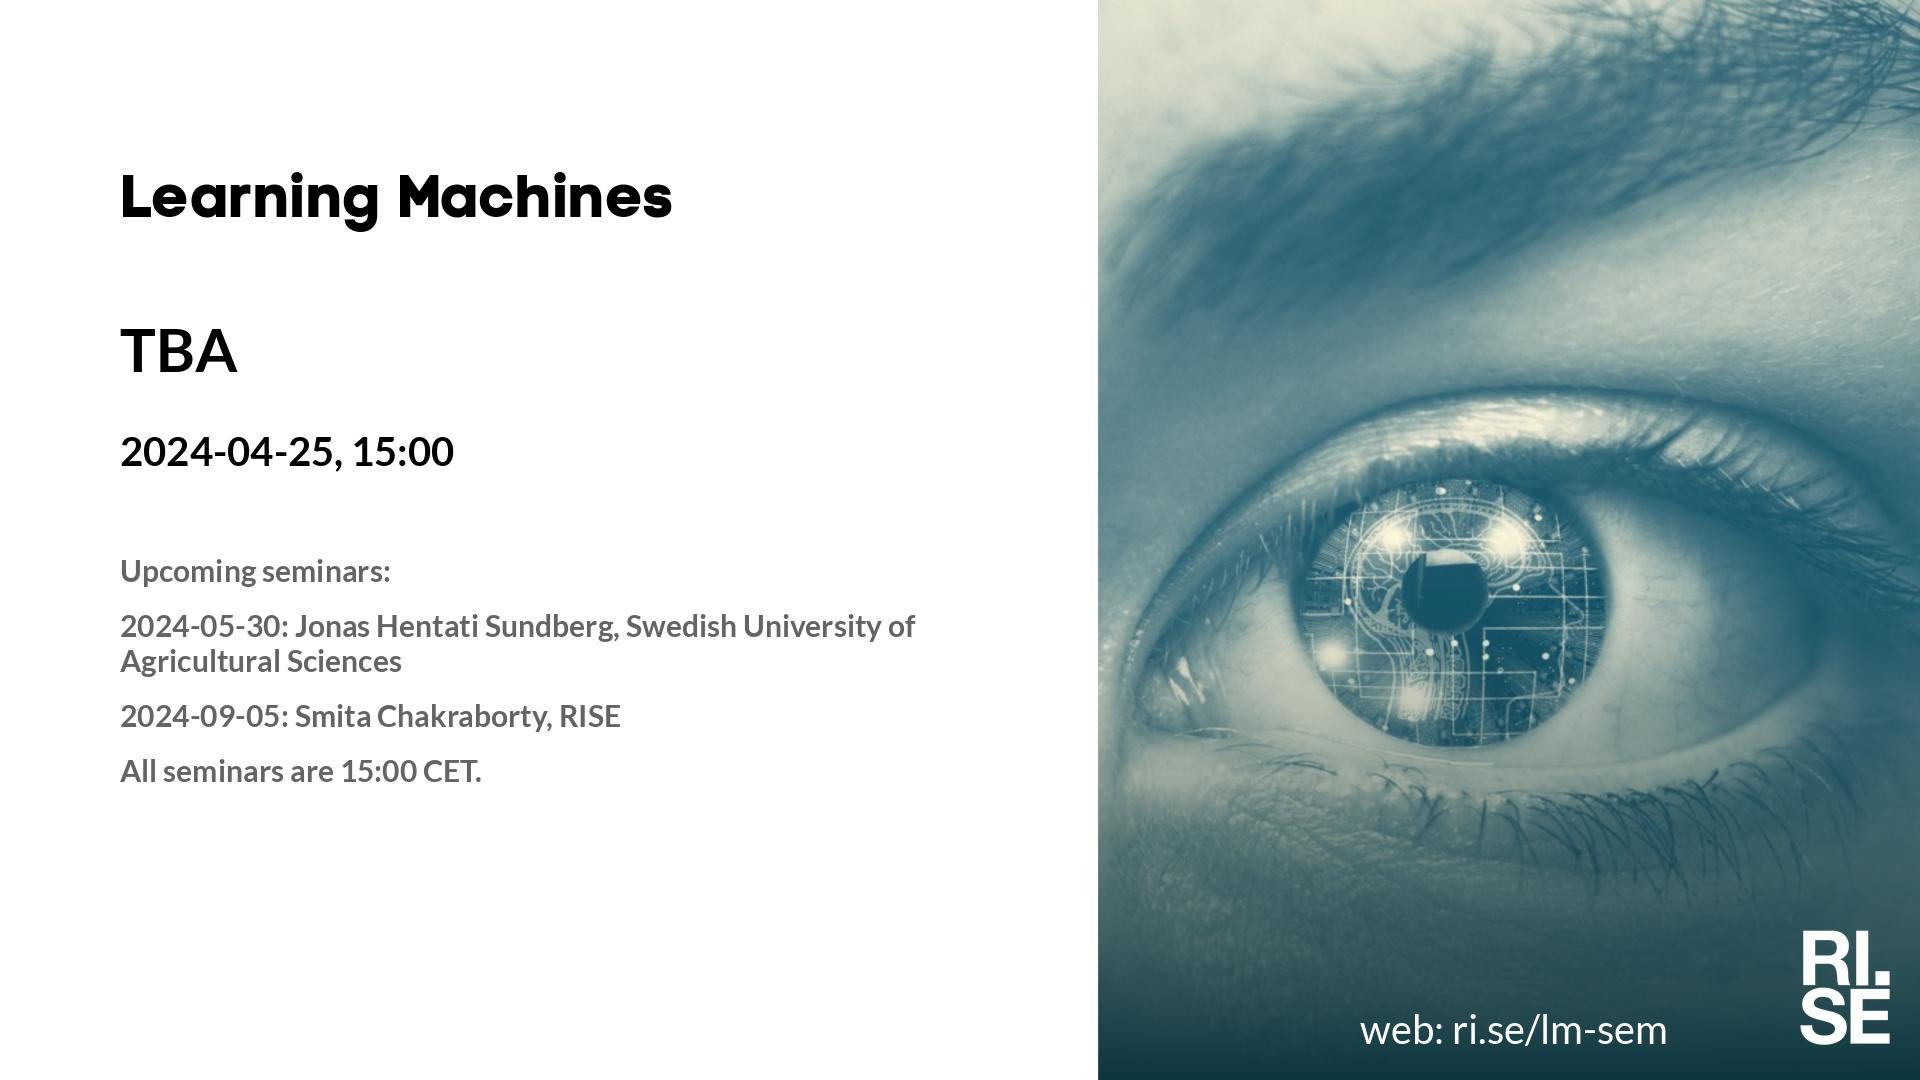
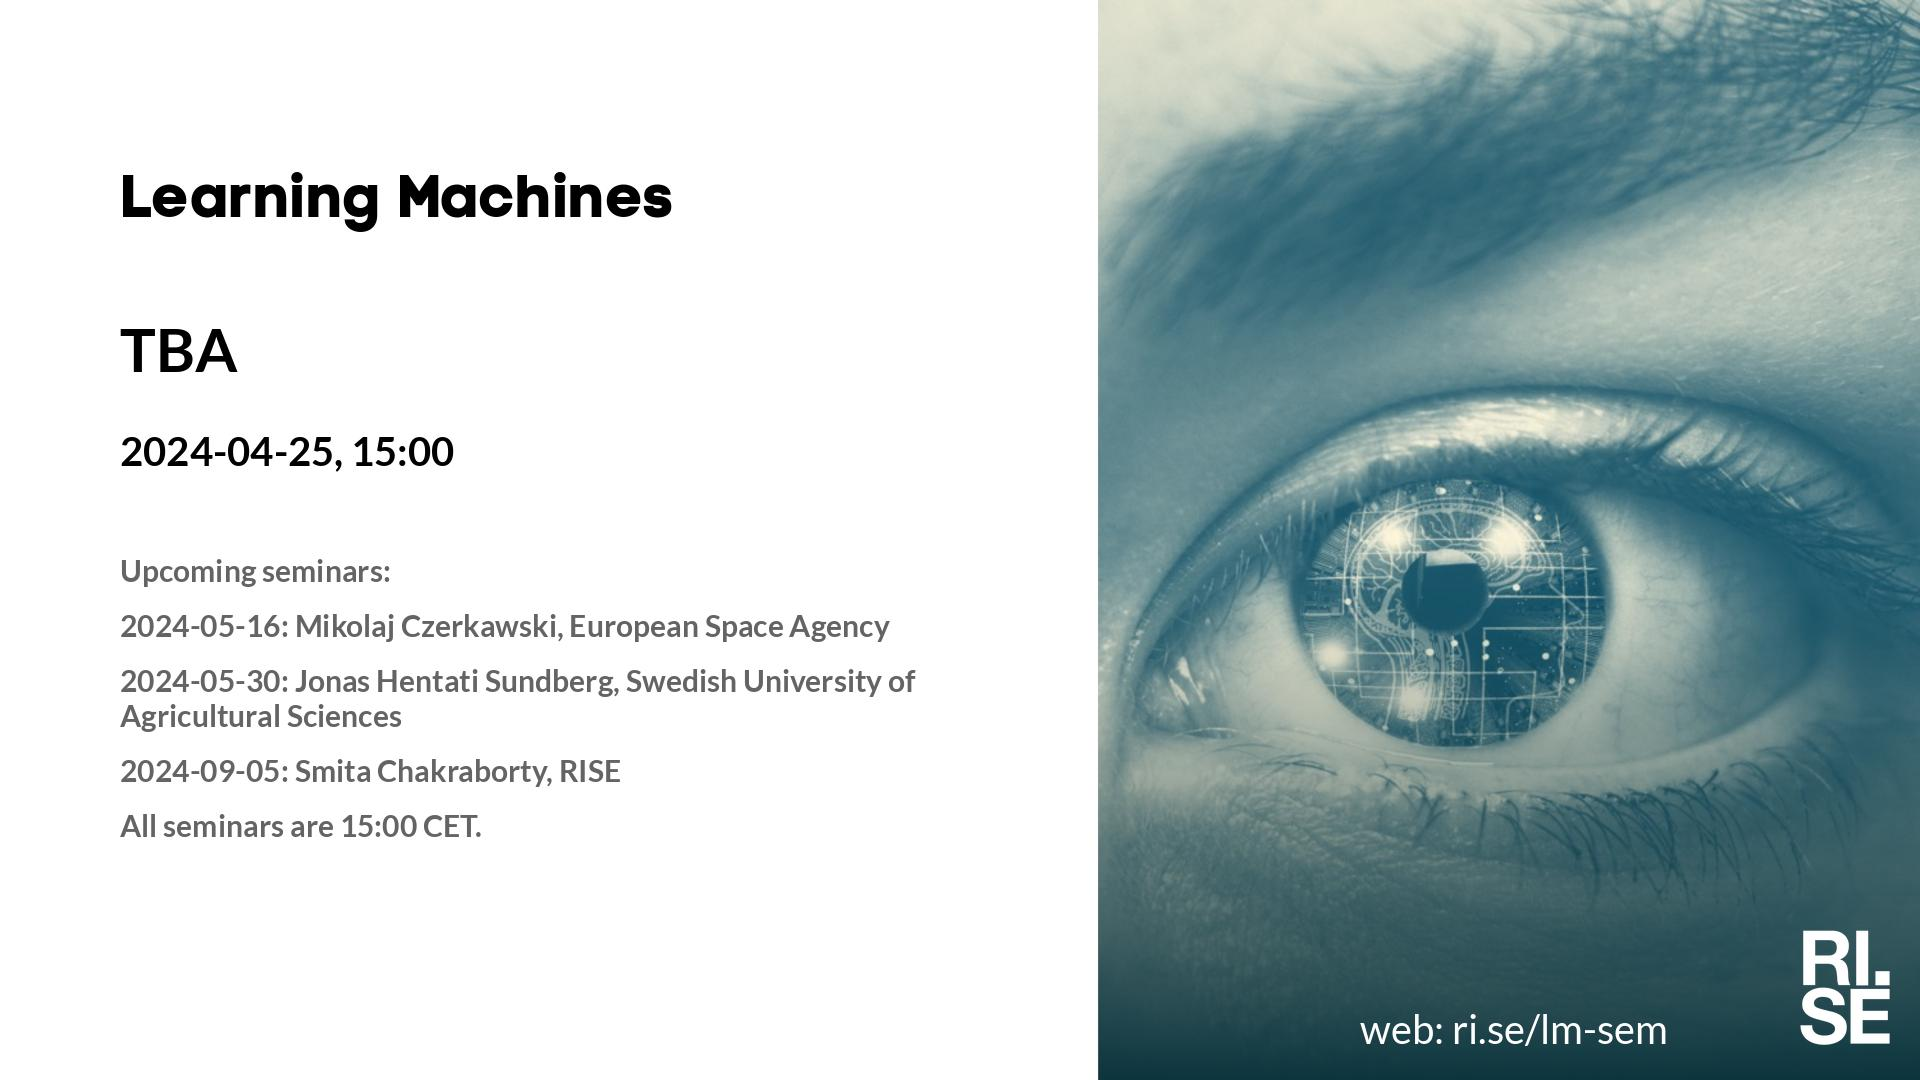
Updated plan on web site.

Changed region(s): [[0.0625, 0.55, 0.4688, 0.6722], [0.0625, 0.7028, 0.3438, 0.7944]]

diff --git a/lm/index.md b/lm/index.md
@@ -5,7 +5,7 @@ metatags: "<meta name=\"robots\" content=\"noindex,nofollow\" />"
 <style type="text/css" scoped>
 td, th {border: 1px solid #ccc; padding: 0.6em;}
 table {border-collapse: collapse;}
-</style># Learning Machines Plan 2024-04-18
+</style># Learning Machines Plan 2024-04-21
 
 | date | speaker                                   | photo | shareable | meeting backdrop | youtube thumbnail | <a title="Speaker, Title, Abstract, Bio, Photo. Strikethrough means we don't have it yet.">comment</a>        |
 | ---- | ----------------------------------------- | ----- | ----- | ----- | ----- | -------------- |
@@ -15,7 +15,7 @@ table {border-collapse: collapse;}
 |  2024-04-25  |  [TBA](2024-04-25.md)  |    |  [social media ](social-media-tba.jpg)  |  [meeting backdrop ](meeting-backdrop-tba.jpg)  |  [youtube thumbnail ](youtube-thumbnail-tba.jpg)  |  S~~TABP~~  |
 | <span style="color:red"> 2024-05-02 </span> | <span style="color:red"> ICLR </span> | <span style="color:red">  </span> | <span style="color:red">  </span> | <span style="color:red">  </span> | <span style="color:red">  </span> | <span style="color:red"> CANCELLED </span> |
 | <span style="color:red"> 2024-05-09 </span> | <span style="color:red"> ICLR </span> | <span style="color:red">  </span> | <span style="color:red">  </span> | <span style="color:red">  </span> | <span style="color:red">  </span> | <span style="color:red"> CANCELLED </span> |
-| <span style="color:purple"> 2024-05-16 </span> | <span style="color:purple"> *Up for grabs!!!* </span> | <span style="color:purple">  </span> | <span style="color:purple">  </span> | <span style="color:purple">  </span> | <span style="color:purple">  </span> | <span style="color:purple"> ~~STABP~~ </span> |
+|  2024-05-16  |  [Mikolaj Czerkawski, European Space Agency](2024-05-16.md)  |    |  [social media ](social-media-mikolaj-czerkawski.jpg)  |  [meeting backdrop ](meeting-backdrop-mikolaj-czerkawski.jpg)  |  [youtube thumbnail ](youtube-thumbnail-mikolaj-czerkawski.jpg)  |  S~~TABP~~  |
 | <span style="color:purple"> 2024-05-23 </span> | <span style="color:purple"> *Up for grabs!!!* </span> | <span style="color:purple">  </span> | <span style="color:purple">  </span> | <span style="color:purple">  </span> | <span style="color:purple">  </span> | <span style="color:purple"> ~~STABP~~ </span> |
 |  2024-05-30  |  [Jonas Hentati Sundberg, Swedish University of Agricultural Sciences](2024-05-30.md)  |    |  [social media ](social-media-jonas-hentati-sundberg.jpg)  |  [meeting backdrop ](meeting-backdrop-jonas-hentati-sundberg.jpg)  |  [youtube thumbnail ](youtube-thumbnail-jonas-hentati-sundberg.jpg)  |  S~~TABP~~  |
 | <span style="color:red"> 2024-06-06 </span> | <span style="color:red"> National d. ? </span> | <span style="color:red">  </span> | <span style="color:red">  </span> | <span style="color:red">  </span> | <span style="color:red">  </span> | <span style="color:red"> CANCELLED </span> |

diff --git a/lm/2024-05-16.md b/lm/2024-05-16.md
@@ -6,7 +6,7 @@ Welcome to this week's Learning Machines seminar.
 
 **Title:** N/A
 
-**Speaker:** TBA, 
+**Speaker:** Mikolaj Czerkawski, European Space Agency
 
 **Abstract:** N/A
 
@@ -14,13 +14,12 @@ Welcome to this week's Learning Machines seminar.
 
 **Location:** This is an online seminar. Connect using Zoom.
 
-**Date:** 2024-04-25 15:00
+**Date:** 2024-05-16 15:00
 
 **Zoom link:** [https://rise.zoom.us/j/208117140](https://rise.zoom.us/j/208117140)
 
 **Upcoming seminars:**
 
-* 2024-05-16: Mikolaj Czerkawski, European Space Agency
 * 2024-05-30: Jonas Hentati Sundberg, Swedish University of Agricultural Sciences
 * 2024-09-05: Smita Chakraborty, RISE
 * All seminars are 15:00 CET.
